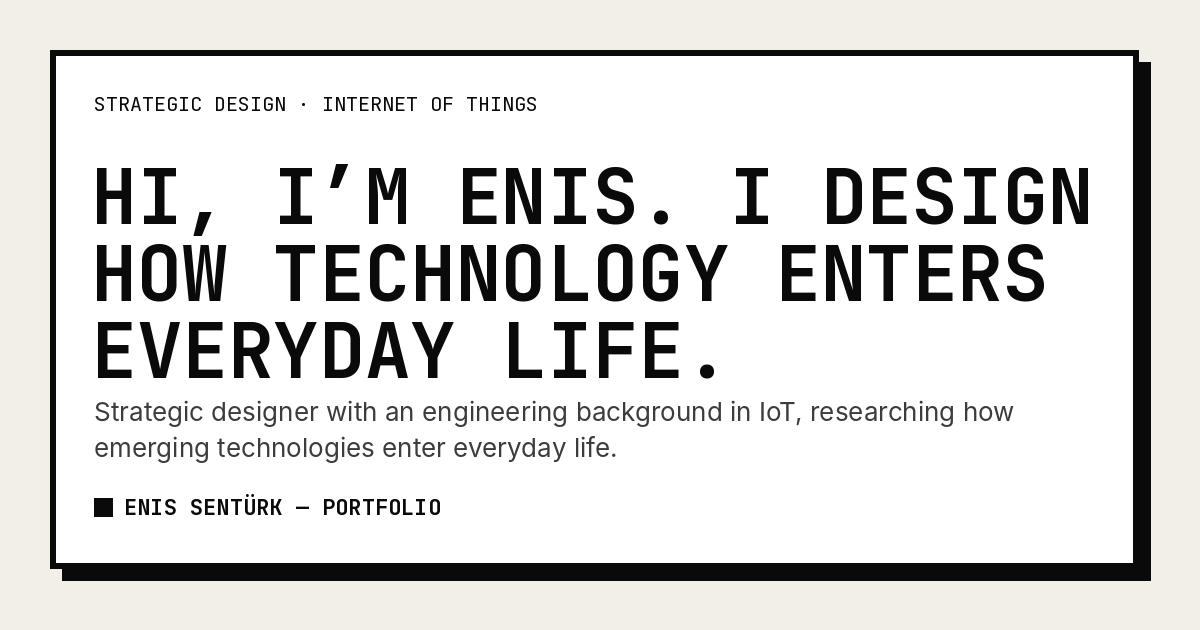
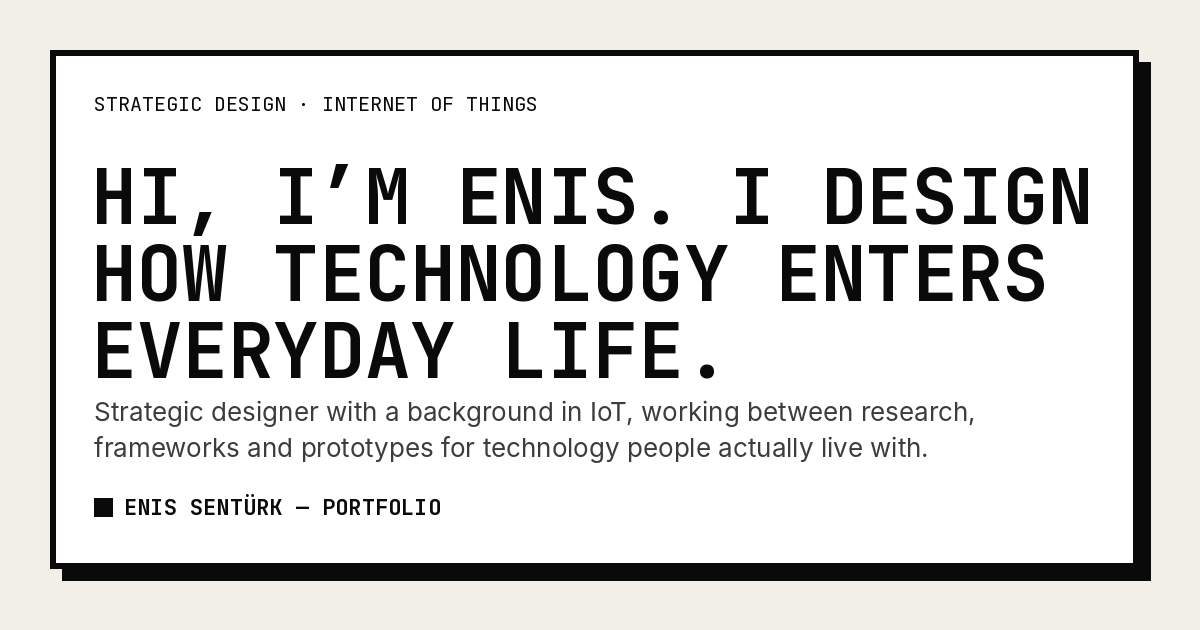
Build pages from content

Changed region(s): [[0.0617, 0.6333, 0.8633, 0.754]]

diff --git a/project.html b/project.html
@@ -4,12 +4,12 @@
 <meta charset="utf-8">
 <meta name="viewport" content="width=device-width, initial-scale=1, viewport-fit=cover">
 <title>Enis Sentürk – Strategic Design &amp; Research</title>
-<meta name="description" content="Strategic designer with an engineering background in IoT, researching how emerging technologies enter everyday life.">
+<meta name="description" content="Strategic designer with a background in IoT, working between research, frameworks and prototypes for technology people actually live with.">
 <link rel="canonical" href="https://enoveqz.github.io/project.html">
 <meta property="og:type" content="website">
 <meta property="og:site_name" content="Enis Sentürk">
 <meta property="og:title" content="Enis Sentürk – Strategic Design &amp; Research">
-<meta property="og:description" content="Strategic designer with an engineering background in IoT, researching how emerging technologies enter everyday life.">
+<meta property="og:description" content="Strategic designer with a background in IoT, working between research, frameworks and prototypes for technology people actually live with.">
 <meta property="og:url" content="https://enoveqz.github.io/project.html">
 <meta property="og:image" content="https://enoveqz.github.io/og/home.png">
 <meta property="og:image:width" content="1200"><meta property="og:image:height" content="630">

diff --git a/index.html b/index.html
@@ -4,12 +4,12 @@
 <meta charset="utf-8">
 <meta name="viewport" content="width=device-width, initial-scale=1, viewport-fit=cover">
 <title>Enis Sentürk – Strategic Design &amp; Research</title>
-<meta name="description" content="Strategic designer with an engineering background in IoT, researching how emerging technologies enter everyday life.">
+<meta name="description" content="Strategic designer with a background in IoT, working between research, frameworks and prototypes for technology people actually live with.">
 <link rel="canonical" href="https://enoveqz.github.io/">
 <meta property="og:type" content="website">
 <meta property="og:site_name" content="Enis Sentürk">
 <meta property="og:title" content="Enis Sentürk – Strategic Design &amp; Research">
-<meta property="og:description" content="Strategic designer with an engineering background in IoT, researching how emerging technologies enter everyday life.">
+<meta property="og:description" content="Strategic designer with a background in IoT, working between research, frameworks and prototypes for technology people actually live with.">
 <meta property="og:url" content="https://enoveqz.github.io/">
 <meta property="og:image" content="https://enoveqz.github.io/og/home.png">
 <meta property="og:image:width" content="1200"><meta property="og:image:height" content="630">

diff --git a/about.html b/about.html
@@ -4,12 +4,12 @@
 <meta charset="utf-8">
 <meta name="viewport" content="width=device-width, initial-scale=1, viewport-fit=cover">
 <title>About – Enis Sentürk</title>
-<meta name="description" content="Strategic designer with an engineering background in IoT, researching how emerging technologies enter everyday life.">
+<meta name="description" content="Strategic designer with a background in IoT, working between research, frameworks and prototypes for technology people actually live with.">
 <link rel="canonical" href="https://enoveqz.github.io/about.html">
 <meta property="og:type" content="website">
 <meta property="og:site_name" content="Enis Sentürk">
 <meta property="og:title" content="About – Enis Sentürk">
-<meta property="og:description" content="Strategic designer with an engineering background in IoT, researching how emerging technologies enter everyday life.">
+<meta property="og:description" content="Strategic designer with a background in IoT, working between research, frameworks and prototypes for technology people actually live with.">
 <meta property="og:url" content="https://enoveqz.github.io/about.html">
 <meta property="og:image" content="https://enoveqz.github.io/og/home.png">
 <meta property="og:image:width" content="1200"><meta property="og:image:height" content="630">
